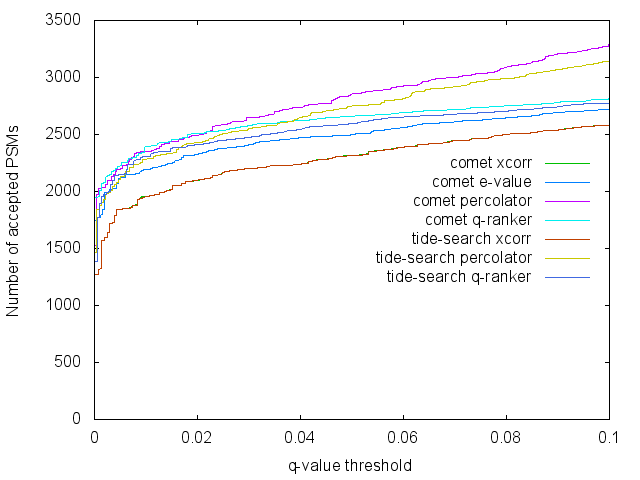
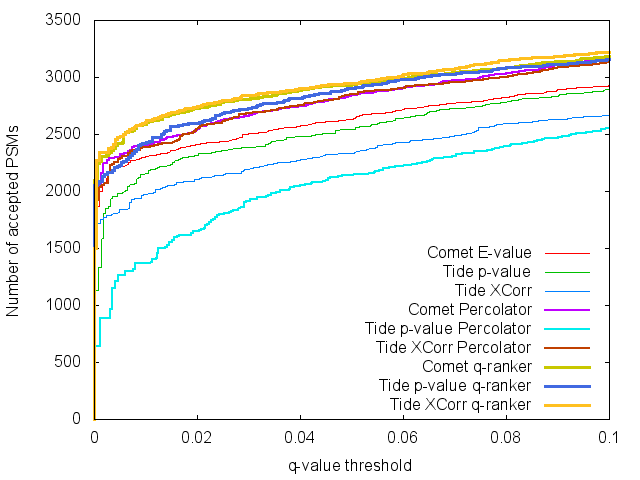
Update performance test stored results plots.

diff --git a/test/performance-tests/performance.html b/test/performance-tests/performance.html
@@ -73,7 +73,7 @@ PSMs that are identified by only one of the two search tools.</p>
 <td><img src="xcorr.comet.png"></td>
 </tr>
 <tr>
-<td>&nbsp;</td>
+<td><img src="stored-xcorr.refactored.png"></td>
 <td><img src="xcorr.refactored.png"></td>
 </tr>
 <tr>
